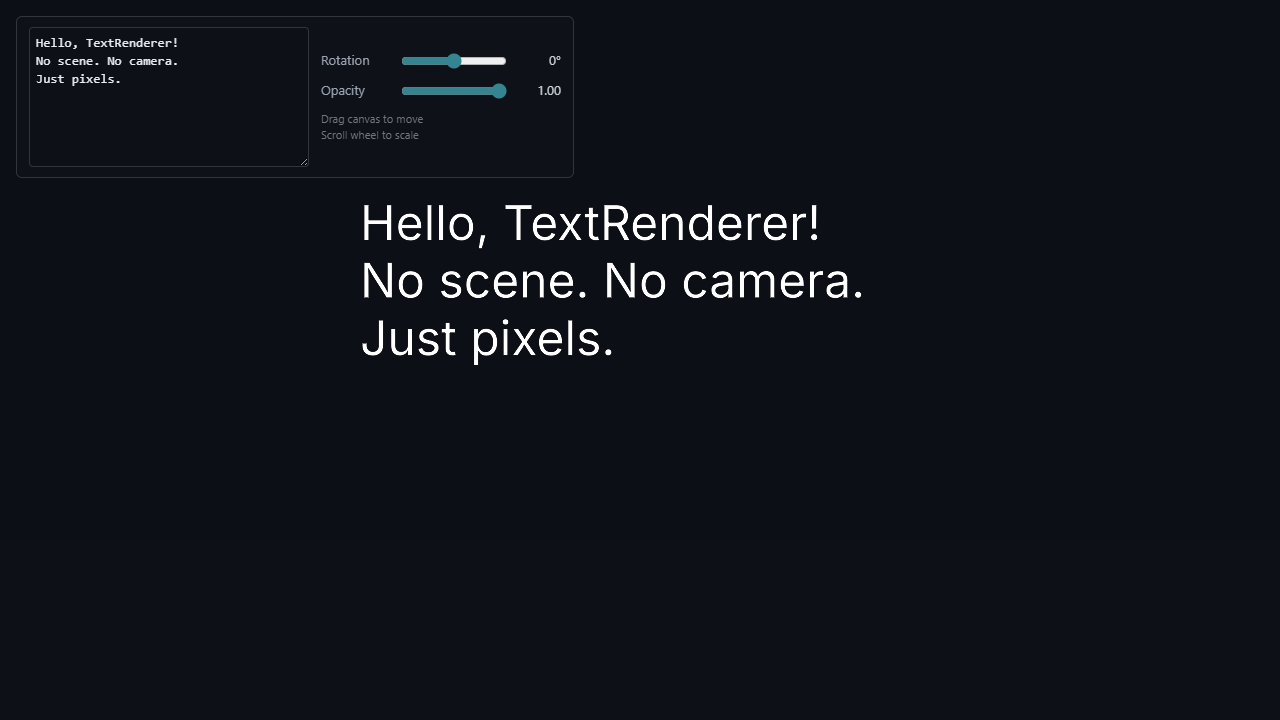
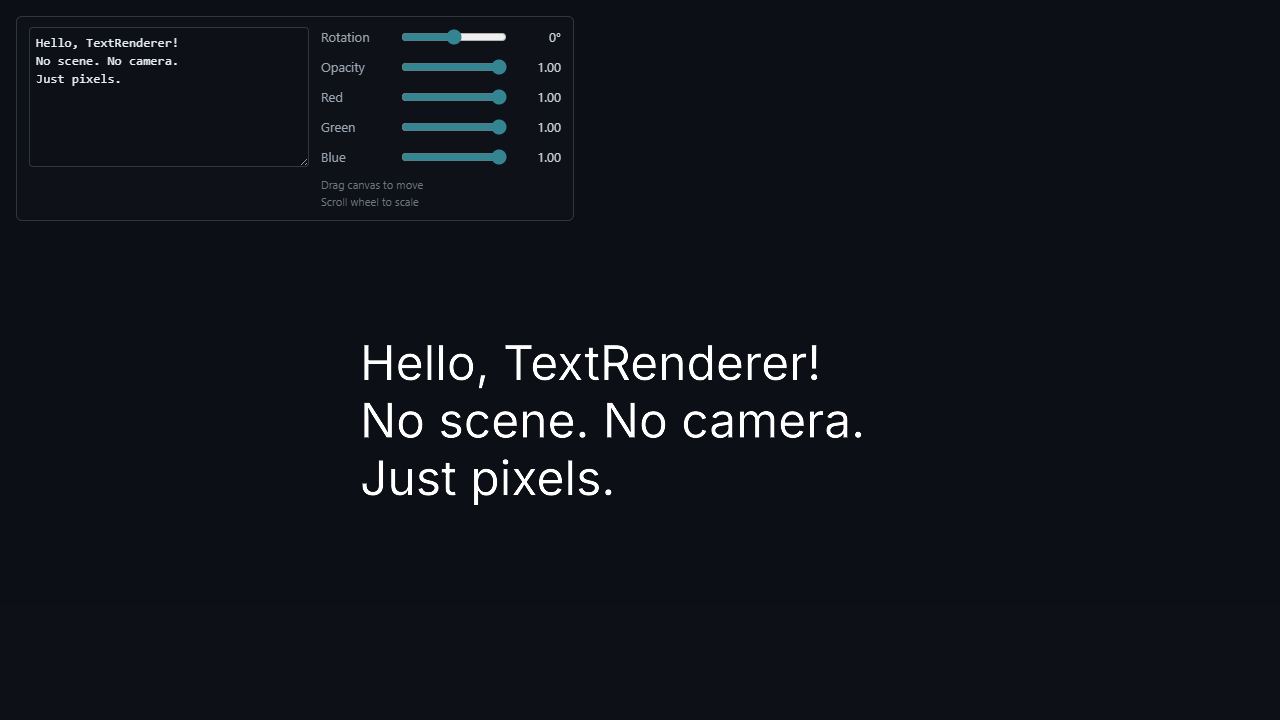
Add per run / glyph color

diff --git a/tests/unit/text-color.test.ts b/tests/unit/text-color.test.ts
@@ -1,0 +1,100 @@
+import { describe, expect, it } from "vitest";
+
+import type { GlyphCurves, TextDescriptor } from "../../packages/babylon-lite/src/text/public-types";
+import { createTextData, TEXT_INSTANCE_FLOATS } from "../../packages/babylon-lite/src/text/text-data";
+import { getTextDataInternals } from "../../packages/babylon-lite/src/text/internal";
+
+function makeGlyph(glyphId: number): GlyphCurves {
+    return {
+        glyphId,
+        curves: [
+            { p0x: 0, p0y: 0, p1x: 50, p1y: 100, p2x: 100, p2y: 0 },
+            { p0x: 100, p0y: 0, p1x: 50, p1y: -20, p2x: 0, p2y: 0 },
+        ],
+        bounds: { xMin: 0, yMin: -20, xMax: 100, yMax: 100 },
+    };
+}
+
+const COLOR_OFFSET = 16;
+
+/** Read the packed RGBA color of instance `i` from a TextData's instance buffer. */
+function instanceColor(data: ReturnType<typeof createTextData>, i: number): [number, number, number, number] {
+    const internals = getTextDataInternals(data)!;
+    const base = i * TEXT_INSTANCE_FLOATS + COLOR_OFFSET;
+    const a = internals.instances;
+    return [a[base], a[base + 1], a[base + 2], a[base + 3]];
+}
+
+describe("text per-glyph color", () => {
+    const inner = new Map<number, GlyphCurves>([
+        [1, makeGlyph(1)],
+        [2, makeGlyph(2)],
+        [3, makeGlyph(3)],
+    ]);
+
+    it("defaults to white when neither glyph nor run specify a color", () => {
+        const desc: TextDescriptor = {
+            curves: new Map([["f", inner]]),
+            runs: [{ curveSet: "f", glyphs: [{ glyphId: 1, x: 0, y: 0 }], pixelsPerFontUnit: 1 }],
+        };
+        const data = createTextData(desc);
+        expect(instanceColor(data, 0)).toEqual([1, 1, 1, 1]);
+    });
+
+    it("applies the run defaultColor to every glyph in the run", () => {
+        const desc: TextDescriptor = {
+            curves: new Map([["f", inner]]),
+            runs: [
+                {
+                    curveSet: "f",
+                    glyphs: [
+                        { glyphId: 1, x: 0, y: 0 },
+                        { glyphId: 2, x: 10, y: 0 },
+                    ],
+                    pixelsPerFontUnit: 1,
+                    defaultColor: [1, 0, 0, 1],
+                },
+            ],
+        };
+        const data = createTextData(desc);
+        expect(instanceColor(data, 0)).toEqual([1, 0, 0, 1]);
+        expect(instanceColor(data, 1)).toEqual([1, 0, 0, 1]);
+    });
+
+    it("lets a per-glyph color override the run defaultColor", () => {
+        const desc: TextDescriptor = {
+            curves: new Map([["f", inner]]),
+            runs: [
+                {
+                    curveSet: "f",
+                    glyphs: [
+                        { glyphId: 1, x: 0, y: 0 },
+                        { glyphId: 2, x: 10, y: 0, color: [0, 1, 0, 1] },
+                        { glyphId: 3, x: 20, y: 0 },
+                    ],
+                    pixelsPerFontUnit: 1,
+                    defaultColor: [1, 0, 0, 1],
+                },
+            ],
+        };
+        const data = createTextData(desc);
+        expect(instanceColor(data, 0)).toEqual([1, 0, 0, 1]); // run default
+        expect(instanceColor(data, 1)).toEqual([0, 1, 0, 1]); // glyph override
+        expect(instanceColor(data, 2)).toEqual([1, 0, 0, 1]); // run default
+    });
+
+    it("uses a per-glyph color even when the run has no defaultColor", () => {
+        const desc: TextDescriptor = {
+            curves: new Map([["f", inner]]),
+            runs: [
+                {
+                    curveSet: "f",
+                    glyphs: [{ glyphId: 1, x: 0, y: 0, color: [0, 0, 1, 0.5] }],
+                    pixelsPerFontUnit: 1,
+                },
+            ],
+        };
+        const data = createTextData(desc);
+        expect(instanceColor(data, 0)).toEqual([0, 0, 1, 0.5]);
+    });
+});

diff --git a/lab/src/lite/scene180.ts b/lab/src/lite/scene180.ts
@@ -13,6 +13,7 @@ import {
     createTextRenderer,
     registerTextRenderer,
 } from "babylon-lite";
+import type { TextDescriptor } from "babylon-lite";
 
 const canvas = document.getElementById("renderCanvas") as HTMLCanvasElement;
 const textarea = document.getElementById("textInput") as HTMLTextAreaElement;
@@ -20,16 +21,28 @@ const rot = document.getElementById("rot") as HTMLInputElement;
 const opacity = document.getElementById("opacity") as HTMLInputElement;
 const rotVal = document.getElementById("rotVal")!;
 const opacityVal = document.getElementById("opacityVal")!;
+const red = document.getElementById("red") as HTMLInputElement;
+const green = document.getElementById("green") as HTMLInputElement;
+const blue = document.getElementById("blue") as HTMLInputElement;
+const redVal = document.getElementById("redVal")!;
+const greenVal = document.getElementById("greenVal")!;
+const blueVal = document.getElementById("blueVal")!;
+
+/** Return a copy of `desc` with the current R/G/B slider color applied as each run's defaultColor. */
+function colored(desc: TextDescriptor): TextDescriptor {
+    const color: [number, number, number, number] = [+red.value, +green.value, +blue.value, 1];
+    return { curves: desc.curves, runs: desc.runs.map((run) => ({ ...run, defaultColor: color })) };
+}
 
 async function run(): Promise<void> {
     const engine = await createEngine(canvas);
     const font = await loadFont("/fonts/Inter.ttf");
 
     let desc = createDefaultTextDescriptor(font, textarea.value, 48, { maxWidth: 1200, align: "left" });
-    const data = createTextData(desc);
+    const data = createTextData(colored(desc));
 
     const layer = createTextLayer(data, {
-        positionPx: { x: 360, y: 240 },
+        positionPx: { x: 360, y: 380 },
         scale: 1,
         rotationRad: 0,
         opacity: 1,
@@ -43,8 +56,18 @@ async function run(): Promise<void> {
 
     textarea.addEventListener("input", () => {
         desc = updateDefaultTextDescriptor(desc, textarea.value);
-        updateTextData(data, desc);
+        updateTextData(data, colored(desc));
     });
+
+    const onColor = (): void => {
+        updateTextData(data, colored(desc));
+        redVal.textContent = (+red.value).toFixed(2);
+        greenVal.textContent = (+green.value).toFixed(2);
+        blueVal.textContent = (+blue.value).toFixed(2);
+    };
+    red.addEventListener("input", onColor);
+    green.addEventListener("input", onColor);
+    blue.addEventListener("input", onColor);
 
     rot.addEventListener("input", () => {
         layer.rotationRad = (+rot.value * Math.PI) / 180;

diff --git a/packages/babylon-lite/src/text/text-renderable.ts b/packages/babylon-lite/src/text/text-renderable.ts
@@ -27,7 +27,9 @@ export interface TextRenderableOptions {
     readonly position?: Readonly<Vec3>;
     readonly rotationQuaternion?: { readonly x: number; readonly y: number; readonly z: number; readonly w: number };
     readonly scaling?: Readonly<Vec3>;
-    readonly color?: readonly [number, number, number, number];
+    /** Whole-block opacity in [0,1]. Default 1. Per-glyph/per-run color comes from the `TextData`
+     *  descriptor (`PlacedGlyph.color` / `GlyphRun.defaultColor`), not from the renderable. */
+    readonly opacity?: number;
     readonly ignoreDepth?: boolean;
     readonly order?: number;
 }
@@ -38,7 +40,8 @@ export interface TextRenderable extends Renderable {
     readonly rotation: EulerProxy;
     readonly rotationQuaternion: ObservableQuat;
     readonly scaling: ObservableVec3;
-    readonly color: [number, number, number, number];
+    /** Whole-block opacity in [0,1]. Color is supplied per-glyph by the `TextData` descriptor. */
+    opacity: number;
     ignoreDepth: boolean;
     order: number;
     /** @internal */ readonly _data: TextData;
@@ -58,7 +61,7 @@ interface TextRenderableGpu {
     uploadedWorldVersion: number;
     uploadedViewportW: number;
     uploadedViewportH: number;
-    uploadedColor: [number, number, number, number];
+    uploadedOpacity: number;
     targetKey: string;
 }
 
@@ -97,7 +100,7 @@ export function createTextRenderable(data: TextData, options?: TextRenderableOpt
         rotationQuaternion: quat,
         rotation: createEulerProxy(quat),
         scaling: new ObservableVec3(sc?.x ?? 1, sc?.y ?? 1, sc?.z ?? 1, markDirty),
-        color: [options?.color?.[0] ?? 1, options?.color?.[1] ?? 1, options?.color?.[2] ?? 1, options?.color?.[3] ?? 1],
+        opacity: options?.opacity ?? 1,
         ignoreDepth: options?.ignoreDepth ?? false,
         _data: data,
         _wmDirty: true,
@@ -146,7 +149,7 @@ function ensureGpu(r: TextRenderable, engine: EngineContextInternal, target: Ren
                 uploadedWorldVersion: -1,
                 uploadedViewportW: 0,
                 uploadedViewportH: 0,
-                uploadedColor: [NaN, NaN, NaN, NaN],
+                uploadedOpacity: NaN,
                 targetKey: key,
             };
             r._gpu = gpu;
@@ -257,15 +260,12 @@ function updateTextRenderable(
         gpu.uploadedViewportW = context.targetWidth;
         gpu.uploadedViewportH = context.targetHeight;
     }
-    const c = r.color;
-    const uc = gpu.uploadedColor;
-    if (uc[0] !== c[0] || uc[1] !== c[1] || uc[2] !== c[2] || uc[3] !== c[3]) {
-        const col = new Float32Array(c);
+    // Color uniform carries whole-block opacity as alpha (rgb fixed to white). Per-glyph color
+    // comes from the instance `slugColor` attribute.
+    if (gpu.uploadedOpacity !== r.opacity) {
+        const col = new Float32Array([1, 1, 1, r.opacity]);
         device.queue.writeBuffer(gpu.textU, 80, col.buffer as ArrayBuffer, col.byteOffset, 16);
-        uc[0] = c[0];
-        uc[1] = c[1];
-        uc[2] = c[2];
-        uc[3] = c[3];
+        gpu.uploadedOpacity = r.opacity;
     }
 }
 

diff --git a/lab/scene180.html b/lab/scene180.html
@@ -13,7 +13,9 @@
                 overflow: hidden;
                 background: #0d1117;
                 color: #e6edf3;
-                font: 13px/1.4 system-ui, sans-serif;
+                font:
+                    13px/1.4 system-ui,
+                    sans-serif;
             }
             canvas {
                 width: 100%;
@@ -84,9 +86,11 @@
     <body>
         <canvas id="renderCanvas"></canvas>
         <div id="panel">
-            <textarea id="textInput" spellcheck="false">Hello, TextRenderer!
+            <textarea id="textInput" spellcheck="false">
+Hello, TextRenderer!
 No scene. No camera.
-Just pixels.</textarea>
+Just pixels.</textarea
+            >
             <div id="sliders">
                 <div class="row">
                     <label for="rot">Rotation</label>
@@ -97,6 +101,21 @@ Just pixels.</textarea>
                     <label for="opacity">Opacity</label>
                     <input id="opacity" type="range" min="0" max="1" step="0.01" value="1" />
                     <span class="val" id="opacityVal">1.00</span>
+                </div>
+                <div class="row">
+                    <label for="red">Red</label>
+                    <input id="red" type="range" min="0" max="1" step="0.01" value="1" />
+                    <span class="val" id="redVal">1.00</span>
+                </div>
+                <div class="row">
+                    <label for="green">Green</label>
+                    <input id="green" type="range" min="0" max="1" step="0.01" value="1" />
+                    <span class="val" id="greenVal">1.00</span>
+                </div>
+                <div class="row">
+                    <label for="blue">Blue</label>
+                    <input id="blue" type="range" min="0" max="1" step="0.01" value="1" />
+                    <span class="val" id="blueVal">1.00</span>
                 </div>
                 <div id="hint">
                     Drag canvas to move<br />

diff --git a/packages/babylon-lite/src/text/text-data.ts b/packages/babylon-lite/src/text/text-data.ts
@@ -8,9 +8,13 @@ import { getSharedAtlasForCurves, setSharedAtlasForCurves, getTextDataInternals,
 import { createSharedAtlas, packAppendGlyph } from "./slug-pack.js";
 import { disposeSharedAtlasGpu } from "./_gpu/slug-textures.js";
 
-/** Bytes per instance: 4 vec4 attributes (slugBounds, slugAnchor, slugAtlas, slugBand). */
-export const TEXT_INSTANCE_FLOATS = 16;
+/** Bytes per instance: 5 vec4 attributes (slugBounds, slugAnchor, slugAtlas, slugBand, slugColor). */
+export const TEXT_INSTANCE_FLOATS = 20;
 export const TEXT_INSTANCE_BYTES = TEXT_INSTANCE_FLOATS * 4;
+
+/** Fallback glyph color (opaque white) when neither the glyph nor its run specifies one. The
+ *  rendered alpha is still scaled by the whole-block opacity uniform at draw time. */
+const WHITE_COLOR: readonly [number, number, number, number] = [1, 1, 1, 1];
 
 function resolveCurves(descriptor: TextDescriptor, id: CurveSetId): ReadonlyMap<number, GlyphCurves> {
     const m = descriptor.curves.get(id);
@@ -45,12 +49,14 @@ function writeRunInstances(out: Float32Array, writeFloatOffset: number, atlas: S
     let count = 0;
     const scale = run.pixelsPerFontUnit;
     const invScale = scale !== 0 ? 1 / scale : 0;
+    const runColor = run.defaultColor ?? WHITE_COLOR;
     for (const pg of run.glyphs) {
         const glyph = curves.get(pg.glyphId);
         const slot = atlas.glyphSlots.get(pg.glyphId);
         if (!glyph || !slot) {
             continue;
         }
+        const color = pg.color ?? runColor;
         const { xMin, yMin, xMax, yMax } = glyph.bounds;
         const widthFu = xMax - xMin;
         const heightFu = yMax - yMin;
@@ -74,6 +80,10 @@ function writeRunInstances(out: Float32Array, writeFloatOffset: number, atlas: S
         out[w + 13] = bandScaleY;
         out[w + 14] = bandOffsetX;
         out[w + 15] = bandOffsetY;
+        out[w + 16] = color[0];
+        out[w + 17] = color[1];
+        out[w + 18] = color[2];
+        out[w + 19] = color[3];
         w += TEXT_INSTANCE_FLOATS;
         count++;
     }

diff --git a/packages/babylon-lite/src/text/public-types.ts b/packages/babylon-lite/src/text/public-types.ts
@@ -27,6 +27,11 @@ export type PlacedGlyph = {
     /** Pixel position of glyph baseline origin. */
     readonly x: number;
     readonly y: number;
+    /** Optional per-glyph color as linear RGBA in [0,1]. When present this overrides the
+     *  run's `defaultColor` for this glyph. When omitted, the glyph falls back to the run's
+     *  `defaultColor`, and if that is also omitted, to opaque white. The rendered alpha is
+     *  additionally scaled by the whole-block opacity (e.g. `TextRenderable.opacity`). */
+    readonly color?: readonly [number, number, number, number];
 };
 
 /** Identifier for a curve set (a font's glyph-curves map) within a `TextDescriptor.curves` dictionary.
@@ -39,6 +44,10 @@ export type GlyphRun = {
     readonly glyphs: readonly PlacedGlyph[];
     /** Font-units → pixels scale used by the layout. */
     readonly pixelsPerFontUnit: number;
+    /** Optional default color for every glyph in this run, as linear RGBA in [0,1]. A glyph's
+     *  own `PlacedGlyph.color` takes precedence over this. When omitted, glyphs default to
+     *  opaque white. The rendered alpha is additionally scaled by the whole-block opacity. */
+    readonly defaultColor?: readonly [number, number, number, number];
 };
 
 export type TextDescriptor = {

diff --git a/lab/bundle-scene180.html b/lab/bundle-scene180.html
@@ -38,6 +38,12 @@
             <span class="val" id="rotVal">0°</span>
             <input id="opacity" type="range" min="0" max="1" step="0.01" value="1" />
             <span class="val" id="opacityVal">1.00</span>
+            <input id="red" type="range" min="0" max="1" step="0.01" value="1" />
+            <span class="val" id="redVal">1.00</span>
+            <input id="green" type="range" min="0" max="1" step="0.01" value="1" />
+            <span class="val" id="greenVal">1.00</span>
+            <input id="blue" type="range" min="0" max="1" step="0.01" value="1" />
+            <span class="val" id="blueVal">1.00</span>
         </div>
         <script src="/loader.js"></script>
         <script type="module" src="/bundle/scene180.js"></script>

diff --git a/packages/babylon-lite/src/text/text-renderer.ts b/packages/babylon-lite/src/text/text-renderer.ts
@@ -190,7 +190,8 @@ function uploadLayer(rr: TextRendererInternal, lg: LayerGpu, bgl0: GPUBindGroupL
         lg.uploadedViewportH = H;
     }
 
-    // Color = (1,1,1,opacity). Per-run color is reserved for a future GlyphRun field.
+    // Color uniform carries the whole-layer opacity as alpha (RGB = white). Per-glyph/per-run
+    // color comes from the instance `slugColor` attribute and is multiplied by this in the shader.
     const col = new Float32Array([1, 1, 1, layer.opacity]);
     device.queue.writeBuffer(lg.textU, 80, col.buffer as ArrayBuffer, col.byteOffset, 16);
 }

diff --git a/lab/src/lite/scene181.ts b/lab/src/lite/scene181.ts
@@ -32,7 +32,7 @@ async function run(): Promise<void> {
     const font = await loadFont("/fonts/Inter.ttf");
     let desc = createDefaultTextDescriptor(font, textarea.value, 48, { maxWidth: 1200, align: "left" });
     const data = createTextData(desc);
-    const text = createTextRenderable(data, { color: [1, 1, 1, 1] });
+    const text = createTextRenderable(data, { opacity: 1 });
     text.position.set(-desc.width * 0.005, desc.height * 0.005, 0);
     text.scaling.set(0.01, 0.01, 0.01);
     addTextRenderable(scene, text);

diff --git a/packages/babylon-lite/src/text/_gpu/slug-pipeline.ts b/packages/babylon-lite/src/text/_gpu/slug-pipeline.ts
@@ -89,6 +89,7 @@ export function getOrCreateTextPipeline(
                         { shaderLocation: 2, offset: 16, format: "float32x4" },
                         { shaderLocation: 3, offset: 32, format: "float32x4" },
                         { shaderLocation: 4, offset: 48, format: "float32x4" },
+                        { shaderLocation: 5, offset: 64, format: "float32x4" },
                     ],
                 },
             ],